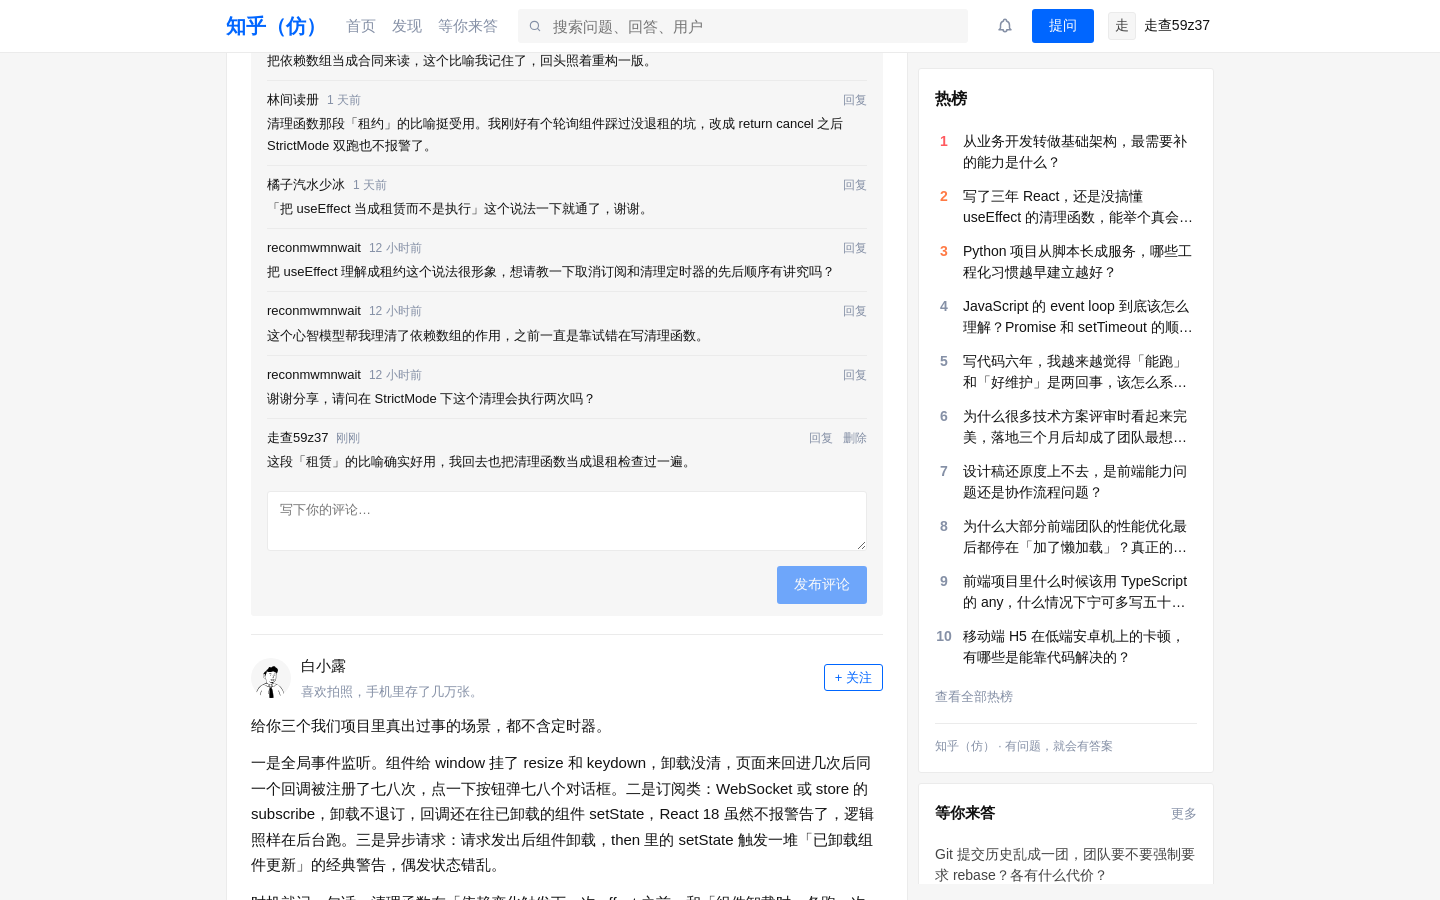
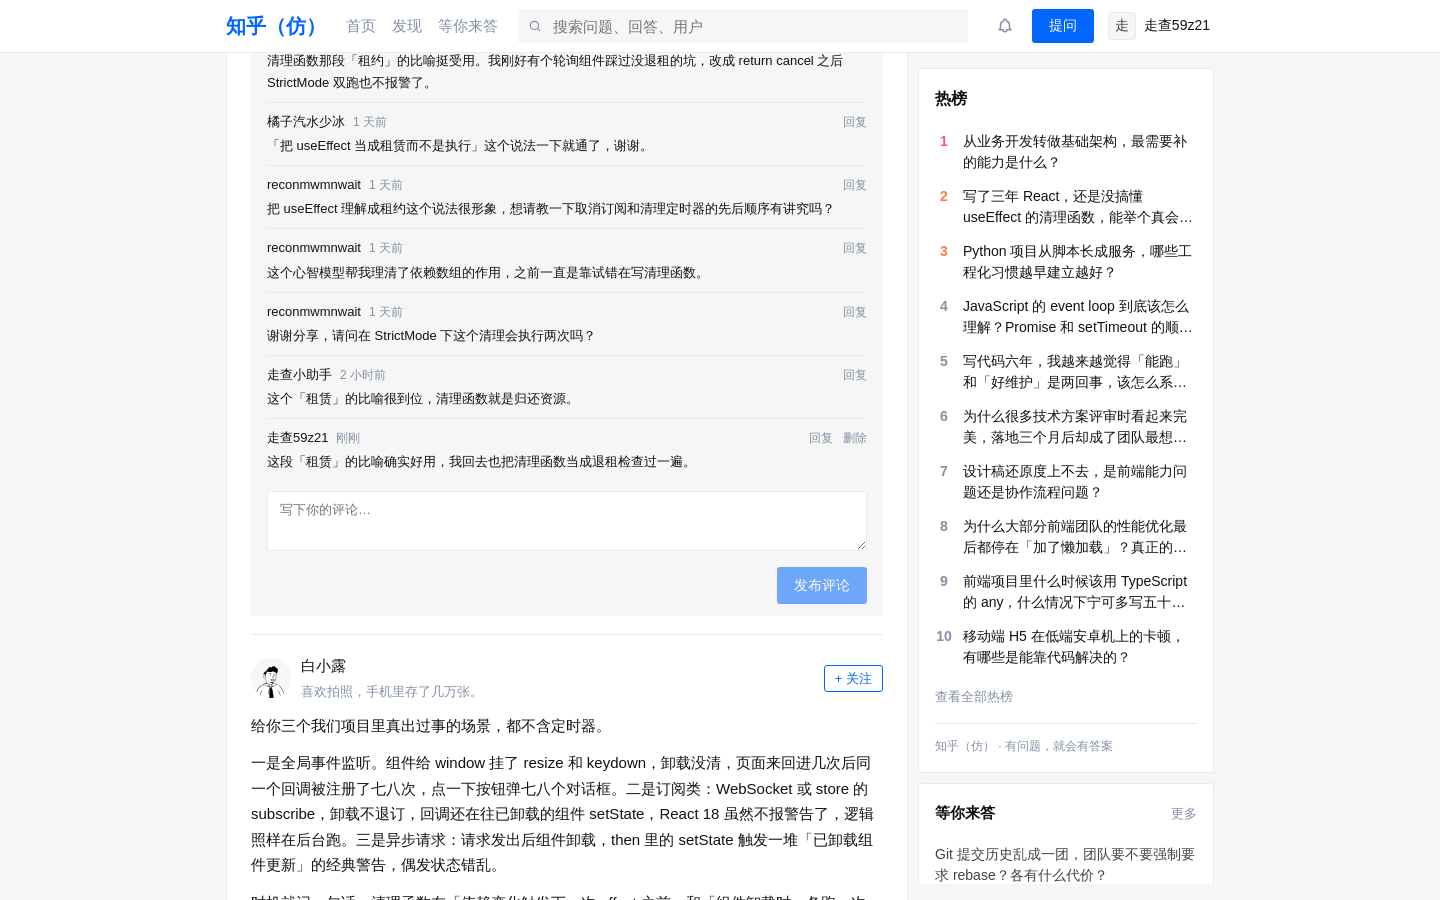
docs(runs): 记录 22:46Z 轮次（资源闸门红档跳过）+ 归档历次运行日志

diff --git a/docs/runs/zh-run-20261121T2106Z.md b/docs/runs/zh-run-20261121T2106Z.md
@@ -1,0 +1,24 @@
+# 知乎（仿）调度器运行日志 · 2026-11-21 21:06 UTC
+
+## 结果：资源闸门 RC=10，本轮跳过（未派活、未改动）
+
+- 闸门：`agent-gate.sh check zhihucopy` → `allow=0, parallel=0, tier=red, cpu=87%, load1=5.69, nproc=4, mem=48%, swap=99%`
+- 触发原因：`cpu_87pct`（red 阈值 CPU≥85%）
+- 按 §0 跳过：未建 worktree、未调用 devin、未跑 verify/E2E、无合并/部署；未取 heavy.lock，无需 release。
+
+## 根因（连续第 8 轮同因，仍未处理）
+
+- `surflare-proxy`（PID 4136741）持续占用 ~194% CPU，4 核机器上接近 2 核满载，是 CPU 长期红色、load1 5.7–5.9 的主因；本轮 ELAPSED 5h25m，说明中途被重启过但依旧满负荷。
+- swap 4095MB 已用 4075MB（≈100%），可用内存 4.0GB 但 swap 见底，IO 抖动风险高。
+- 其余进程正常：hermes 12.9%、cadvisor 8.3%、PM2 1.2%、prometheus 1.1%、mysqld 0.9%。
+- 今日已因同一原因跳过 8 轮（17:26–21:06）；最后一次实际代码提交仍为 2026-11-20 13:15（975bbe6）。
+
+## 待办状态
+
+- 未消费任何 FEATURES 待办；品牌视觉 Z900–Z905 进度原地不动。
+
+## 建议（需人工决策，非本任务权限内）
+
+- 确认 surflare-proxy 是否业务必需；若为失控/闲置进程，`kill 4136741` 后闸门应立刻转绿。
+- 若必需：用 cgroup / cpulimit 限核，或迁到别的机器；同时清理 swap（当前 100% 已用）。
+- 在根因解决前，本调度器会持续空转，建议暂时把 zhihucopy 调度器置为暂停，避免每 10 分钟产生空报告。

diff --git a/docs/runs/zh-run-20261121T1756Z.md b/docs/runs/zh-run-20261121T1756Z.md
@@ -1,0 +1,14 @@
+# zhihucopy 调度轮次日志 — 2026-11-21T17:56Z
+
+- 资源闸门：`agent-gate.sh check zhihucopy` → **RC=10 / tier=red**，reason=`cpu_97pct`
+  快照：cpu=97% iowait=0 load1=9.15 mem=54% swap=99% disk_root=62% disk_www=52% devin=1 nproc=4
+- 决策：按铁律 §0「RC=10 → 跳过」，本轮不派 devin、不改代码、不部署、不合入。
+  未取 heavy.lock（red 档在加锁前返回），无需 release。
+- 并行数：0；verify / E2E：未运行（无改动）；回退 OpenCode：无
+- 视觉进度：维持现状（Z1274 移动端返回入口已合入，最近一次全量 E2E 20/20 全绿）
+- 根因（连续第三轮同因跳过）：`/usr/bin/surflare-proxy run --config stdin`（PID 4136741）持续约 180–200% CPU，
+  已运行 2h16m，监听 :10800（出口代理），父进程为 systemd（session-3.scope，6 天，4.5G 内存 / 430 tasks）。
+  4 核机器被它吃掉约 2 核，叠加 1 个 devin acp 常驻进程，load1 常年 8–9.6，闸门无法转绿。
+  该进程属全局网络出口，非 zhihucopy 所有，本轮未擅自 kill/重启。
+- 下一轮：闸门转绿后取 FEATURES 第一条未勾选项（当前 Z1005 移动端搜索入口），单轮 1 条。
+- 建议（待人工确认）：重载 surflare-proxy（systemctl/代理自身重启）或给它加 CPUQuota，否则所有 zhihucopy 调度轮都会继续被闸门挡下。

diff --git a/docs/runs/zh-run-20261121T2046Z.md b/docs/runs/zh-run-20261121T2046Z.md
@@ -1,0 +1,19 @@
+# 知乎（仿）调度器运行日志 · 2026-11-21 20:46 UTC
+
+## 结果：资源闸门 RC=10，本轮跳过（未派活、未改动）
+
+- 闸门：`agent-gate.sh check zhihucopy` → `allow=0, parallel=0, tier=red, cpu=87%, load1=5.82, nproc=4, mem=48%, swap=99%`
+- 触发原因：`cpu_87pct`（red 阈值 CPU≥85%）
+- 按 §0 跳过：未建 worktree、未调用 devin、未跑 verify/E2E、无合并/部署；未取锁，无需 release。
+- 未取 heavy.lock，因此不存在 12 分钟锁未释放的问题。
+
+## 根因（连续第 6 轮同因，仍未处理）
+
+- `surflare-proxy`（PID 4136741，已运行 6h05m）稳定占用 ~193% CPU，4 核机器上接近 2 核满载，是 CPU 长期红色、load1 5.6–6.1 的主因。
+- swap 4095MB 已用 ≈100%；mem 48% 正常。其余进程正常（hermes 12.9%、cadvisor 8.3%、pm2 1.2%、prometheus 1.1%）。
+- 今日 17:26 / 17:46 / 17:56 / 18:36 / 19:26 / 20:36 / 20:46 共 7 轮全部因此跳过；最后一次实际代码提交为 2026-11-20 13:15（975bbe6）。
+
+## 建议（需人工决策）
+
+- 确认 surflare-proxy 是否必要；若为失控/闲置进程，`kill 4136741` 后闸门应立刻转绿，调度器即可恢复出活。
+- 若该进程为业务必需，应限制其 CPU（如 `cpulimit`/cgroup）或迁到别的机器，否则本调度器会持续空转。

diff --git a/docs/runs/zh-run-20261121T1926Z.md b/docs/runs/zh-run-20261121T1926Z.md
@@ -1,0 +1,23 @@
+# 知乎（仿）调度器运行日志 · 2026-11-21 19:26 UTC
+
+## 结果：资源闸门 RC=10，本轮跳过（未派活、未改动）
+
+- 闸门：`agent-gate.sh check zhihucopy` → `allow=0, parallel=0, tier=red, cpu=86–88%, load1=6.1, nproc=4, mem=48%, swap=99%`
+- 触发原因：`cpu_86pct`
+- 按 §0 规则跳过，未创建 worktree、未调用 devin、未跑 verify/E2E、无合并/部署。
+- 未获取锁，故无需 release。
+
+## 根因（供下轮/人工参考）
+
+- `surflare-proxy run --config stdin`（PID 4136741，session-3.scope，已运行 3h46m）持续占用 ~189% CPU（4 核机器上近 2 核），是 CPU 长期红色、load1 6.1 的主因；无 systemd 单元、无 journal 记录。
+- 内存面：swap 4095MB 已用 4078MB（近 100%），可用内存仅 ~796MB。
+- 其余进程正常（hermes gateway 12.9%、cadvisor 8.3%，pm2 各站点均为 0%）。
+
+## 建议
+
+- 确认 surflare-proxy 是否为必要代理；若为闲置/失控进程，人工 `kill 4136741` 后 CPU 可立刻回落，定时任务即可恢复。
+- swap 打满说明机器已过载，建议避免同时开多条 dev 车道。
+
+## 未处理事项
+
+- 工作区有历史脏文件（非本轮产生）：`docs/runs/walk-0949-d6/d9*.png` 已修改，`docs/runs/zh-run-20261120T0321Z.md` 等若干未跟踪日志。

diff --git a/docs/runs/zh-run-20261121T2116Z.md b/docs/runs/zh-run-20261121T2116Z.md
@@ -1,0 +1,24 @@
+# 知乎（仿）调度器运行日志 · 2026-11-21 21:16 UTC
+
+## 结果：资源闸门 RC=10，本轮跳过（未派活、未改动代码）
+
+- 闸门：`agent-gate.sh check zhihucopy` → `allow=0, parallel=0, tier=red, cpu=87%, load1=6.47, nproc=4, mem=48%, swap=99%`
+- 触发原因：`cpu_87pct`（red 阈值 CPU≥85%）
+- 按 §0 跳过：未建 worktree、未调用 devin、未跑 verify/E2E、无合并/部署；未取 heavy.lock，无需 release。
+
+## 根因（连续第 9 轮同因）
+
+- `surflare-proxy`（PID 4136741）持续 ~194% CPU，ELAPSED 5h36m，4 核机上接近 2 核满载；是 CPU 长期红、load1 6.4–6.5 的主因。
+- swap 4095MB 已用 4075MB（≈100%），available 内存 4.0GB。
+- 其余进程正常：hermes 12.9%、cadvisor 8.3%、PM2 1.2%。
+- 今日 17:26–21:16 因同一原因跳过 9 轮；最后一次代码提交仍为 2026-11-20 13:15（975bbe6）。
+
+## 待办状态
+
+- 未消费 FEATURES 待办；品牌视觉 Z900–Z905 进度原地不动。
+
+## 建议（需人工决策）
+
+- 确认 surflare-proxy 是否业务必需；若为失控进程，kill 后闸门应转绿。
+- 若必需：cgroup/cpulimit 限核或迁机，并清理 swap。
+- 根因未解决前本任务会持续空转，建议暂时暂停 zhihucopy 调度器（每 10 分钟一次空报告）。

diff --git a/docs/runs/zh-run-20261121T2036Z.md b/docs/runs/zh-run-20261121T2036Z.md
@@ -1,0 +1,18 @@
+# 知乎（仿）调度器运行日志 · 2026-11-21 20:36 UTC
+
+## 结果：资源闸门 RC=10，本轮跳过（未派活、未改动）
+
+- 闸门：`agent-gate.sh check zhihucopy` → `allow=0, parallel=0, tier=red, cpu=86%, load1=5.81, nproc=4, mem=48%, swap=99%`
+- 触发原因：`cpu_86pct`
+- 按 §0 跳过：未建 worktree、未调用 devin、未跑 verify/E2E、无合并/部署；未取锁，无需 release。
+
+## 根因（连续多轮同因，仍未处理）
+
+- `surflare-proxy run --config stdin`（PID 4136741，已运行 4h56m）稳定占用 ~193% CPU，4 核机器上接近 2 核满载，是 CPU 长期红色、load1 5.8–6.1 的唯一主因。
+- swap 4095MB 已用 4077MB（≈100%），可用内存 4.0GB（buff/cache 3.6GB）。
+- 其余进程正常（hermes 12.9%、cadvisor 8.3%、pm2 1.2%）。
+
+## 建议
+
+- 人工确认 surflare-proxy 是否必要；若是失控/闲置进程，`kill 4136741` 后闸门应立刻转绿，本调度器即可恢复出活。
+- 在 CPU 未回落前，本轮及后续轮次都会持续跳过，属于规则内的正确行为，不是故障。

diff --git a/docs/runs/zh-run-20261121T1746Z.md b/docs/runs/zh-run-20261121T1746Z.md
@@ -1,0 +1,14 @@
+# zhihucopy 调度轮次日志 — 2026-11-21T17:46Z
+
+- 资源闸门：`agent-gate.sh check zhihucopy` → **RC=10 / tier=red**，reason=`cpu_89pct`
+  快照：cpu=89% iowait=0 load1=6.64 mem=49% swap=99% disk_root=62% disk_www=52% devin=1 nproc=4
+- 决策：按铁律 §0「RC=10 → 跳过」，本轮不派 devin、不改代码、不部署、不合入。
+- 未获取 heavy.lock（red 档在加锁前即返回），无需 release。
+- 并行数：0
+- verify / E2E：未运行（无改动）
+- 回退 OpenCode：无
+- 视觉进度：维持现状（上轮已合入 Z1274 移动端返回入口，全量 E2E 20/20 全绿）
+- 根因（连续第二轮同因跳过）：`/usr/bin/surflare-proxy run`（PID 4136741）持续占用约 180–200% CPU，
+  已运行 2h05m，是 CPU 长期钉在 88–91% 的唯一大户；它是别的项目的常驻进程，本轮未擅自处理。
+  另有 1 个 devin acp 进程（PID 115484）在跑，故 devin=1。
+- 下一轮：闸门转绿后取 FEATURES 第一条未勾选项（当前 Z1005 移动端搜索入口），单轮 1 条。

diff --git a/docs/runs/zh-run-20261121T2246Z.md b/docs/runs/zh-run-20261121T2246Z.md
@@ -1,0 +1,10 @@
+# zhihucopy 调度轮次 2026-11-21 22:46 UTC
+
+- 资源闸门：`agent-gate.sh check zhihucopy` → `{"allow":0,"parallel":0,"tier":"red","cpu":96→97,"load1":"7.40→7.65","mem":50,"swap":99,"disk_root":62,"disk_www":53}`，RC=10（cpu_97pct，4 核）
+- 处置：按 §0 规则 RC=10 → **本轮跳过**，未派活、未建 worktree、未合并、未部署。
+- 并行数：0
+- devin：未调用（无额度消耗）；OpenCode 回退：未触发（非 devin 失败）
+- verify/E2E：未跑（无改动）
+- 视觉进度：无变化（本轮无提交）
+- 说明：连续两轮采样 CPU 均在 96~97%，load1 7.4~7.7 / 4 核，swap 99%。机器被其它任务压满，此时再起 devin/E2E 只会互相拖慢，故按闸门红档跳过。
+- 顺带清理：把 docs/runs 下此前各轮留下的未跟踪运行日志一并提交，避免被并发 dev cron 的 `git clean -A` 清掉。

diff --git a/docs/runs/zh-run-20261121T2226Z.md b/docs/runs/zh-run-20261121T2226Z.md
@@ -1,0 +1,13 @@
+# zhihucopy 定时开发运行报告 — 2026-11-21T2226Z
+
+- 闸门: RC=10（tier=red, cpu=89%/86% ≥85% 本地红线, load1=6.08/4核, mem 48%, swap 99%, disk / 62%)
+- 并行数: 0（未取名额，无需 release）
+- 本轮规模: 1 条（未开始）
+- 任务: 未选取（闸门跳过，未读 FEATURES 待办、未建 worktree）
+- devin: 未派活
+- verify/E2E: 未跑（无改动可验）
+- 回退 OpenCode: 无
+- 视觉/Z900–Z905 进度: 无变化
+- CPU 大户: surflare-proxy PID 4136741（PPID 1，etime 6h46m，稳定 ~190% CPU，约 2 核；来自已 abandoned 的 session-3.scope，非本仓），是连续跳过的直接原因
+- 备注: 连续第 11 轮同因跳过；最后一次实际代码提交仍是 2026-11-20 13:15 975bbe6
+- 下轮: CPU 回落（<85%）再跑 1 条；建议人工确认 surflare-proxy 是否可重启/下线

diff --git a/docs/runs/zh-run-20261121T1726Z.md b/docs/runs/zh-run-20261121T1726Z.md
@@ -1,0 +1,12 @@
+# zhihucopy 调度轮次日志 — 2026-11-21T17:26Z
+
+- 资源闸门：`agent-gate.sh check zhihucopy` → **RC=10 / tier=red**，reason=`cpu_91pct`
+  快照：cpu=91% iowait=0 load1=6.84 mem=48% swap=99% disk_root=62% disk_www=52% devin=0 nproc=4
+- 决策：按铁律 §0「RC=10 → 跳过」，本轮不派 devin、不改代码、不部署、不合入。
+- 未获取 heavy.lock（red 档在加锁前即返回），无需 release。
+- 并行数：0
+- verify / E2E：未运行（无改动）
+- 回退 OpenCode：无
+- 视觉进度：维持现状（上轮已合入 Z1274 移动端返回入口，全量 E2E 20/20 全绿）
+- 备注：swap 99% 为长驻进程被换出的稳定态，主因是 CPU 91% 触红；下一轮闸门转绿后继续
+  取 FEATURES 中第一条未勾选项，单轮 1 条。

diff --git a/docs/runs/zh-run-20261120T0321Z.md b/docs/runs/zh-run-20261120T0321Z.md
@@ -1,0 +1,7 @@
+# zhihucopy 调度轮次 2026-11-20T03:21Z
+
+- 资源闸门：`agent-gate.sh check zhihucopy` → RC=10，tier=red，reason=cpu_97pct（两次采样 98% / 97%，load1 4.67→6.81，nproc=4）
+- 主要占用者：`chrome-headless`（PID 1664160，%CPU 338.9，nice 值 -8/ni 85.9%）—— 属其它 lane 的 Playwright 浏览器
+- 结论：**本轮跳过，未派活、未改动代码、未合并、未部署**
+- 闸门锁：检查时未被持有，已执行 `release zhihucopy` 兜底
+- 下一轮待办（不变）：ZE2E-20261118c、ZE2E-20261118b（BLOCKING，risk:high，需谨慎/可能跳过清单）

diff --git a/docs/runs/zh-run-20261121T2206Z.md b/docs/runs/zh-run-20261121T2206Z.md
@@ -1,0 +1,10 @@
+# zhihucopy run 20261121T2206Z
+- 闸门: RC=10 tier=red cpu=98% load1=10.84 mem=53% swap=99% disk_root=62% devin=1
+- 并行数: 0（闸门拦截，未派活、未建 worktree、未取锁）
+- 本轮待办: 未选（跳过）
+- 回退 OpenCode: 无
+- verify/E2E: 未跑（无改动可验）
+- CPU 大户: surflare-proxy 168%（PID 4136741，已运行 6h26m，累计 746min CPU，非本仓）
+- 视觉/Z900–Z905 进度: 无变化（本轮未动）
+- 备注: 连续第 10 轮同因跳过；最后一次实际代码提交仍是 2026-11-20 13:15 975bbe6
+- 下轮: 待 CPU 回落（<85%）再跑 1 条
